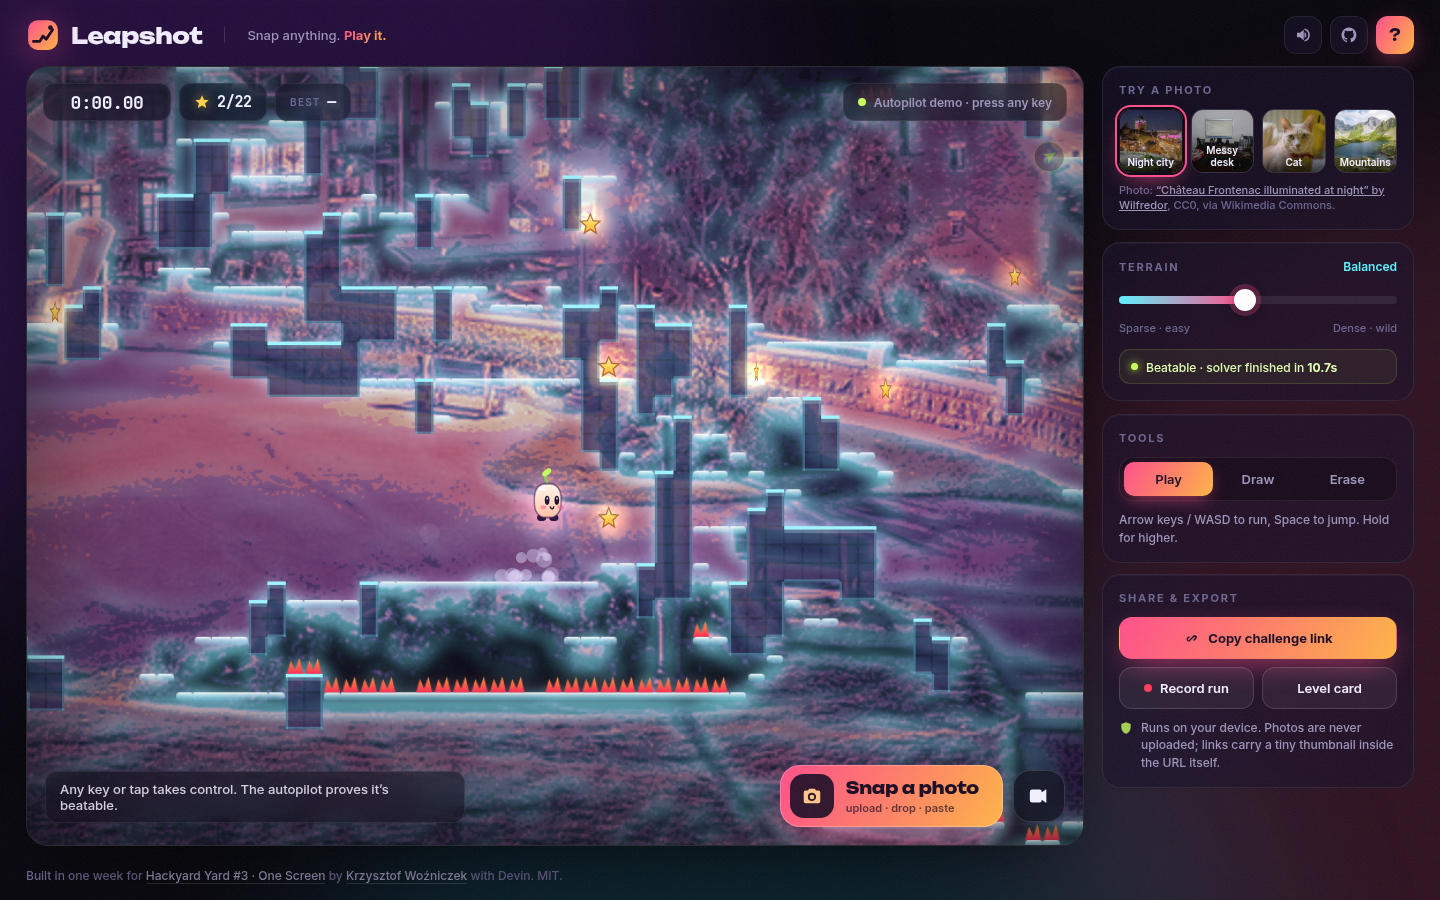
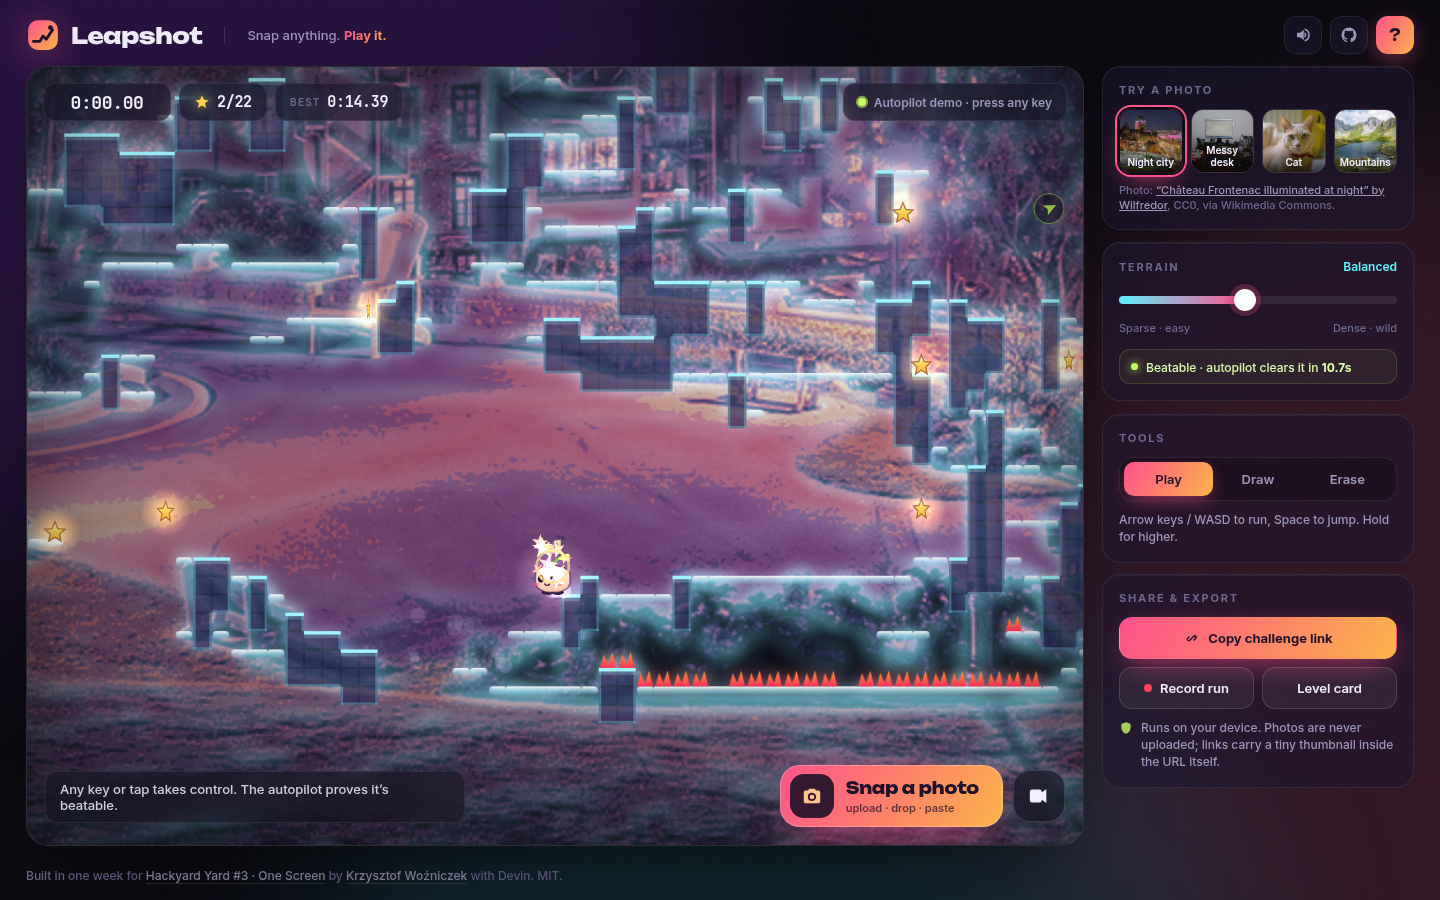
Fix mobile layout overflow, drop unused preload, clearer solver copy

diff --git a/css/app.css b/css/app.css
@@ -8,7 +8,7 @@
   --display:"Unbounded",system-ui,sans-serif; --ui:"Inter",system-ui,sans-serif; --mono:"JetBrains Mono",ui-monospace,monospace;
 }
 *{box-sizing:border-box;margin:0;padding:0}
-html,body{height:100%}
+html{height:100%}
 body{background:var(--bg);color:var(--ink);font:500 14px/1.45 var(--ui);-webkit-font-smoothing:antialiased;overflow-x:hidden;display:flex;flex-direction:column;min-height:100vh}
 button{font:inherit;color:inherit;background:none;border:0;cursor:pointer}
 kbd{font:600 11px var(--mono);padding:2px 6px;border-radius:6px;background:rgba(255,255,255,.08);border:1px solid var(--line2);border-bottom-width:2px;margin:0 2px;color:var(--ink)}
@@ -212,7 +212,7 @@ input[type=range]:focus-visible::-webkit-slider-thumb{box-shadow:0 0 0 5px rgba(
 [hidden]{display:none!important}
 
 @media (max-width:960px){
-  .stage{grid-template-columns:1fr;padding:0 12px 12px}
+  .stage{grid-template-columns:1fr;padding:0 12px 12px;flex:none}
   .viewport{height:min(68vh,620px);min-height:360px}
   .top{padding:12px 14px 10px;gap:12px}
   .tag{display:none}
